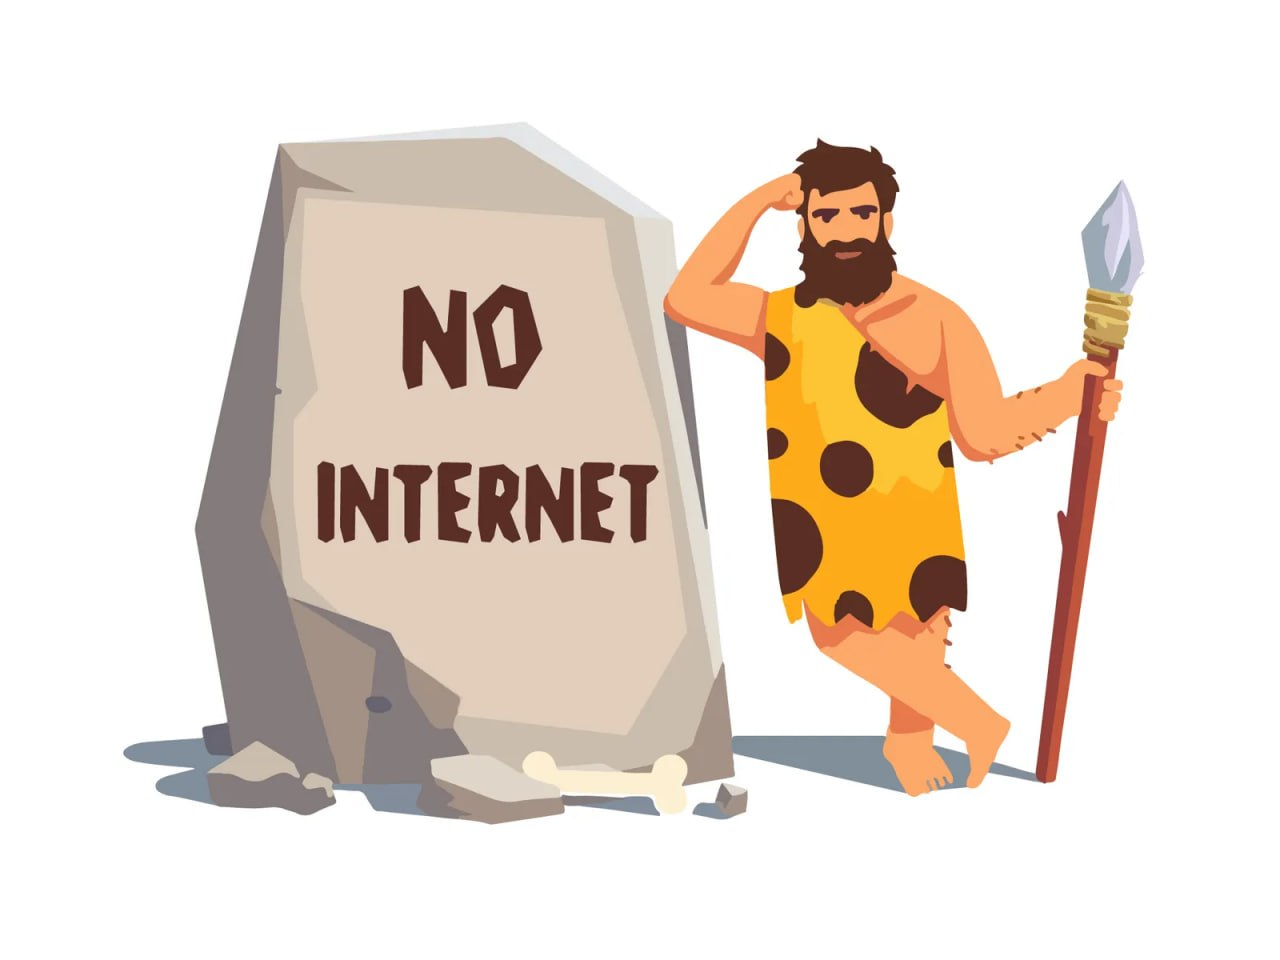
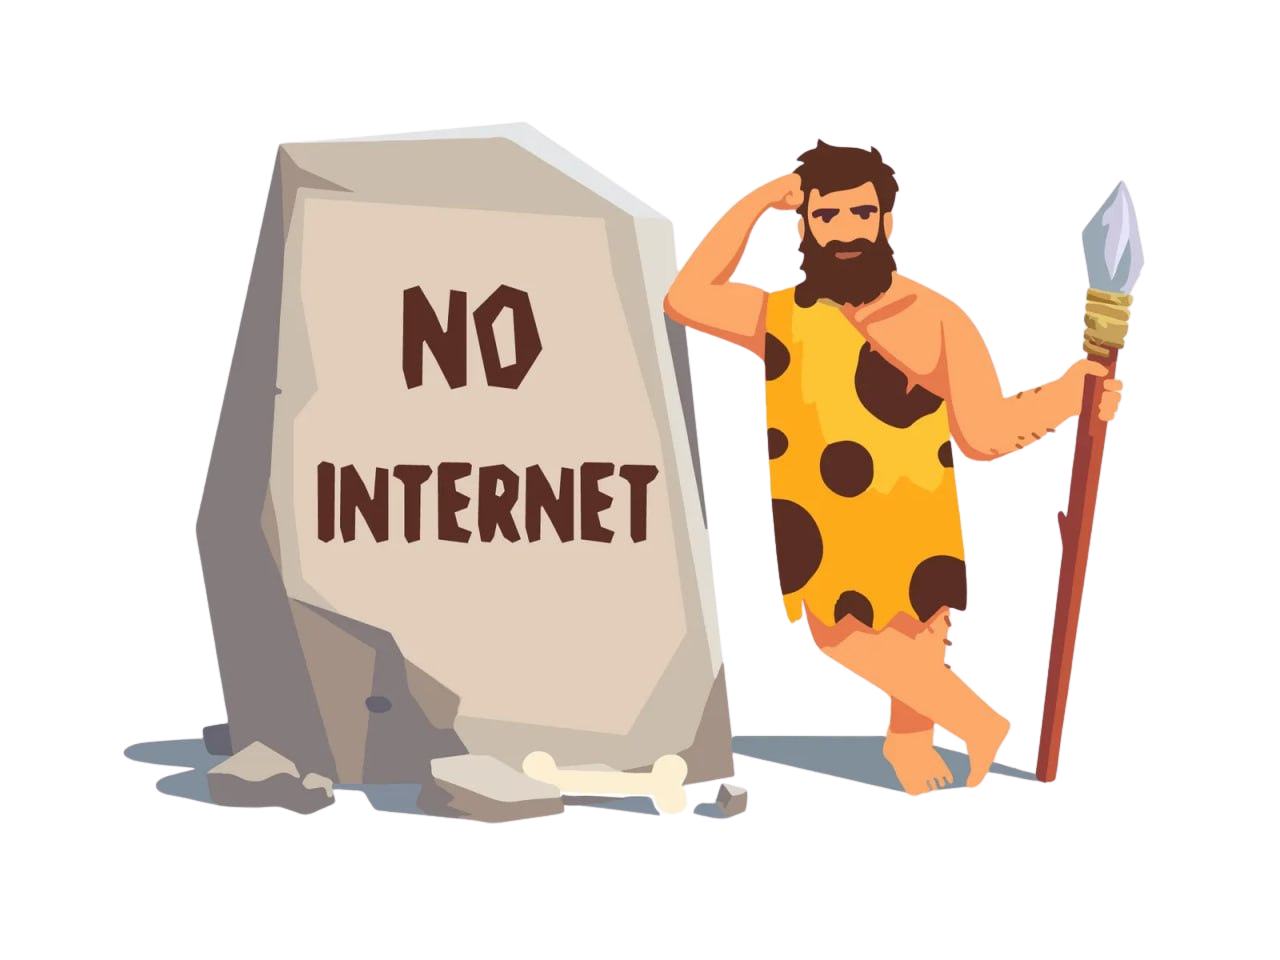
update dark mode on offline page

Changed region(s): [[0.8125, 0.4375, 0.8438, 0.4688], [0.75, 0.4688, 0.7812, 0.5]]

diff --git a/src/components/store/store-component/search.tsx b/src/components/store/store-component/search.tsx
@@ -198,15 +198,15 @@ const SearchDrawer = ({
         className="
           fixed inset-0 top-0 left-0 z-50 flex h-full w-full max-w-full
           translate-x-0 translate-y-0 flex-col gap-0 overflow-hidden
-          rounded-none border-0 p-0
+          rounded-none border-0 p-0 bg-white dark:bg-[#2e302f]
           sm:h-full sm:w-full sm:max-w-full sm:rounded-none
           xl:inset-auto xl:left-[50%] xl:top-[50%] xl:min-h-[560px] xl:max-h-[92vh]
           xl:w-[min(90vw,860px)] xl:max-w-4xl xl:-translate-x-1/2 xl:-translate-y-1/2
-          xl:rounded-2xl xl:border
+          xl:rounded-2xl xl:border dark:border-[#293831]
         "
       >
         {/* iOS-style search bar: input + inline Cancel link */}
-        <div className="flex shrink-0 items-center gap-2 border-b px-3 py-2.5 sm:px-4 sm:py-3">
+        <div className="flex shrink-0 items-center gap-2 border-b dark:border-[#293831] px-3 py-2.5 sm:px-4 sm:py-3">
           <div className="relative flex-1">
             <Search className="pointer-events-none absolute left-3 top-1/2 h-4 w-4 -translate-y-1/2 text-muted-foreground" />
             <input
@@ -221,6 +221,10 @@ const SearchDrawer = ({
                 border
                 border-input
                 bg-white
+                dark:bg-[#34463e]
+                dark:border-[#34463e]
+                dark:text-[#f3f7f4]
+                dark:placeholder:text-[#a7b4ad]
                 pl-9
                 pr-9
                 text-sm
@@ -238,7 +242,7 @@ const SearchDrawer = ({
                 type="button"
                 onClick={() => handleChange("")}
                 aria-label="Clear search"
-                className="absolute right-2.5 top-1/2 flex h-4 w-4 -translate-y-1/2 items-center justify-center rounded-full bg-muted-foreground/30 text-background hover:bg-muted-foreground/50"
+                className="absolute right-2.5 top-1/2 flex h-4 w-4 -translate-y-1/2 items-center justify-center rounded-full bg-muted-foreground/30 dark:bg-muted-foreground/50 text-background dark:text-[#2e302f] hover:bg-muted-foreground/50 dark:hover:bg-muted-foreground/70"
               >
                 <X className="h-3 w-3" />
               </button>
@@ -246,21 +250,21 @@ const SearchDrawer = ({
           </div>
 
           <DialogClose>
-            <span className="shrink-0 whitespace-nowrap px-1 text-sm font-medium text-primary hover:opacity-70 sm:text-base">
+            <span className="shrink-0 whitespace-nowrap px-1 text-sm font-medium text-primary dark:text-[#35cc60] hover:opacity-70 sm:text-base">
               Cancel
             </span>
           </DialogClose>
         </div>
 
-        <div className="no-scrollbar flex-1 space-y-5 overflow-y-auto p-4 sm:p-5">
+        <div className="no-scrollbar flex-1 space-y-5 overflow-y-auto p-4 sm:p-5 dark:bg-[#2e302f]">
           {showResults ? (
             <div className="space-y-2.5">
-              <h4 className="text-xs font-medium uppercase tracking-wide text-muted-foreground">
+              <h4 className="text-xs font-medium uppercase tracking-wide text-muted-foreground dark:text-[#a7b4ad]">
                 {searching ? "Searching..." : `Results (${results.length})`}
               </h4>
 
               {searching ? (
-                <div className="flex items-center gap-2 py-6 text-sm text-muted-foreground">
+                <div className="flex items-center gap-2 py-6 text-sm text-muted-foreground dark:text-[#a7b4ad]">
                   <Loader2 className="h-4 w-4 animate-spin" />
                   Looking for &quot;{currentValue}&quot;...
                 </div>
@@ -281,8 +285,10 @@ const SearchDrawer = ({
                           py-2
                           text-sm
                           text-foreground
+                          dark:text-[#f3f7f4]
                           transition-colors
                           hover:bg-primary/5
+                          dark:hover:bg-primary/10
                         "
                       >
                         {store.image ? (
@@ -292,14 +298,14 @@ const SearchDrawer = ({
                             className="h-8 w-8 shrink-0 rounded-full object-cover"
                           />
                         ) : (
-                          <div className="flex h-8 w-8 shrink-0 items-center justify-center rounded-full bg-primary/10 text-xs font-semibold text-primary">
+                          <div className="flex h-8 w-8 shrink-0 items-center justify-center rounded-full bg-primary/10 dark:bg-primary/20 text-xs font-semibold text-primary dark:text-[#35cc60]">
                             {store.name?.charAt(0)}
                           </div>
                         )}
                         <div className="min-w-0">
-                          <p className="truncate font-medium">{store.name}</p>
+                          <p className="truncate font-medium dark:text-[#f3f7f4]">{store.name}</p>
                           {store.category && (
-                            <p className="truncate text-xs text-muted-foreground">
+                            <p className="truncate text-xs text-muted-foreground dark:text-[#a7b4ad]">
                               {store.category}
                             </p>
                           )}
@@ -310,8 +316,8 @@ const SearchDrawer = ({
                 </div>
               ) : (
                 <div className="flex flex-col items-center gap-2 py-8 text-center">
-                  <SearchX className="h-6 w-6 text-muted-foreground" />
-                  <p className="text-sm text-muted-foreground">
+                  <SearchX className="h-6 w-6 text-muted-foreground dark:text-[#a7b4ad]" />
+                  <p className="text-sm text-muted-foreground dark:text-[#a7b4ad]">
                     No stores found for &quot;{currentValue}&quot;
                   </p>
                 </div>
@@ -321,14 +327,14 @@ const SearchDrawer = ({
             recentSearches.length > 0 && (
               <div className="space-y-2.5">
                 <div className="flex items-center justify-between">
-                  <h4 className="text-xs font-medium uppercase tracking-wide text-muted-foreground">
+                  <h4 className="text-xs font-medium uppercase tracking-wide text-muted-foreground dark:text-[#a7b4ad]">
                     Recent Searches
                   </h4>
                   {!controlledRecents && (
                     <button
                       type="button"
                       onClick={clearRecents}
-                      className="text-xs font-medium text-muted-foreground hover:text-foreground"
+                      className="text-xs font-medium text-muted-foreground dark:text-[#a7b4ad] hover:text-foreground dark:hover:text-[#f3f7f4]"
                     >
                       Clear all
                     </button>
@@ -350,8 +356,10 @@ const SearchDrawer = ({
                         py-2
                         text-sm
                         text-foreground
+                        dark:text-[#f3f7f4]
                         transition-colors
                         hover:bg-primary/5
+                        dark:hover:bg-primary/10
                       "
                     >
                       <button
@@ -359,7 +367,7 @@ const SearchDrawer = ({
                         onClick={() => handleRecentClick(term)}
                         className="flex flex-1 items-center gap-3 text-left"
                       >
-                        <Clock className="h-4 w-4 shrink-0 text-muted-foreground" />
+                        <Clock className="h-4 w-4 shrink-0 text-muted-foreground dark:text-[#a7b4ad]" />
                         {term}
                       </button>
                       {!controlledRecents && (
@@ -369,7 +377,7 @@ const SearchDrawer = ({
                           aria-label={`Remove ${term}`}
                           className="opacity-0 transition-opacity group-hover:opacity-100"
                         >
-                          <X className="h-3.5 w-3.5 text-muted-foreground hover:text-foreground" />
+                          <X className="h-3.5 w-3.5 text-muted-foreground dark:text-[#a7b4ad] hover:text-foreground dark:hover:text-[#f3f7f4]" />
                         </button>
                       )}
                     </div>

diff --git a/src/components/offline/OfflineGate.tsx b/src/components/offline/OfflineGate.tsx
@@ -7,7 +7,7 @@ export function OfflineGate({ children }: { children: React.ReactNode }) {
 
   if (!isOnline) {
     return (
-      <div className="h-screen w-screen flex flex-col items-center justify-center text-center px-4 bg-white">
+      <div className="h-screen w-screen flex flex-col items-center justify-center text-center px-4 bg-white dark:bg-[#2e302f]">
         <Image
           src="/no-internet.png"
           alt="No internet connection"
@@ -15,15 +15,15 @@ export function OfflineGate({ children }: { children: React.ReactNode }) {
           height={340}
           priority
         />
-        <h1 className="text-2xl font-semibold mt-6 mb-2 text-gray-900">
+        <h1 className="text-2xl font-semibold mt-6 mb-2 text-gray-900 dark:text-[#f3f7f4]">
           Oops! No Internet Connection
         </h1>
-        <p className="text-gray-500 mb-6 max-w-sm">
+        <p className="text-gray-500 mb-6 max-w-sm dark:text-[#a7b4ad]">
           Looks like you&apos;ve wandered off the grid. Check your Wi-Fi or mobile data and try again.
         </p>
         <button
           onClick={() => window.location.reload()}
-          className="px-6 py-2.5 rounded-lg bg-black text-white font-medium hover:bg-gray-800 transition-colors"
+          className="px-6 py-2.5 rounded-lg bg-black text-white font-medium hover:bg-gray-800 dark:bg-gray-700 dark:hover:bg-gray-600 transition-colors"
         >
           Retry
         </button>

diff --git a/src/app/offline/page.tsx b/src/app/offline/page.tsx
@@ -6,7 +6,7 @@ export default function OfflinePage() {
   return (
    
     
-     <div className="h-screen w-screen flex flex-col items-center justify-center text-center px-4 bg-white">
+     <div className="h-screen w-screen flex flex-col items-center justify-center text-center px-4 bg-white dark:bg-[#2e302f]">
       <Image
         src="/no-internet.png"
         alt="No internet connection"
@@ -14,10 +14,10 @@ export default function OfflinePage() {
         height={340}
         priority
       />
-      <h1 className="text-2xl font-semibold mt-6 mb-2 text-gray-900">
+      <h1 className="text-2xl font-semibold mt-6 mb-2 text-gray-900 dark:text-[#f3f7f4]">
         Oops! No Internet Connection
       </h1>
-      <p className="text-gray-500 mb-6 max-w-sm">
+      <p className="text-gray-500 mb-6 max-w-sm dark:text-[#a7b4ad]">
         Looks like you&apos;ve wandered off the grid. Check your Wi-Fi or mobile data and try again.
       </p>
       {/* <RetryButton /> */}

diff --git a/src/app/layout.tsx b/src/app/layout.tsx
@@ -17,7 +17,7 @@ import "./about/about.css";
 import { NetworkStatusBanner } from "@/components/common/NetworkStatusBanner";
 import { OfflineGate } from "@/components/offline/OfflineGate";
 import { ConnectionProvider } from "@/components/offline/ConnectionProvider";
-import { ConditionalChrome } from "@/components/hidden/ConditionalChrome";
+
 
 const siteUrl = process.env.NEXT_PUBLIC_APP_URL || "https://fluxibiz.store";
 
